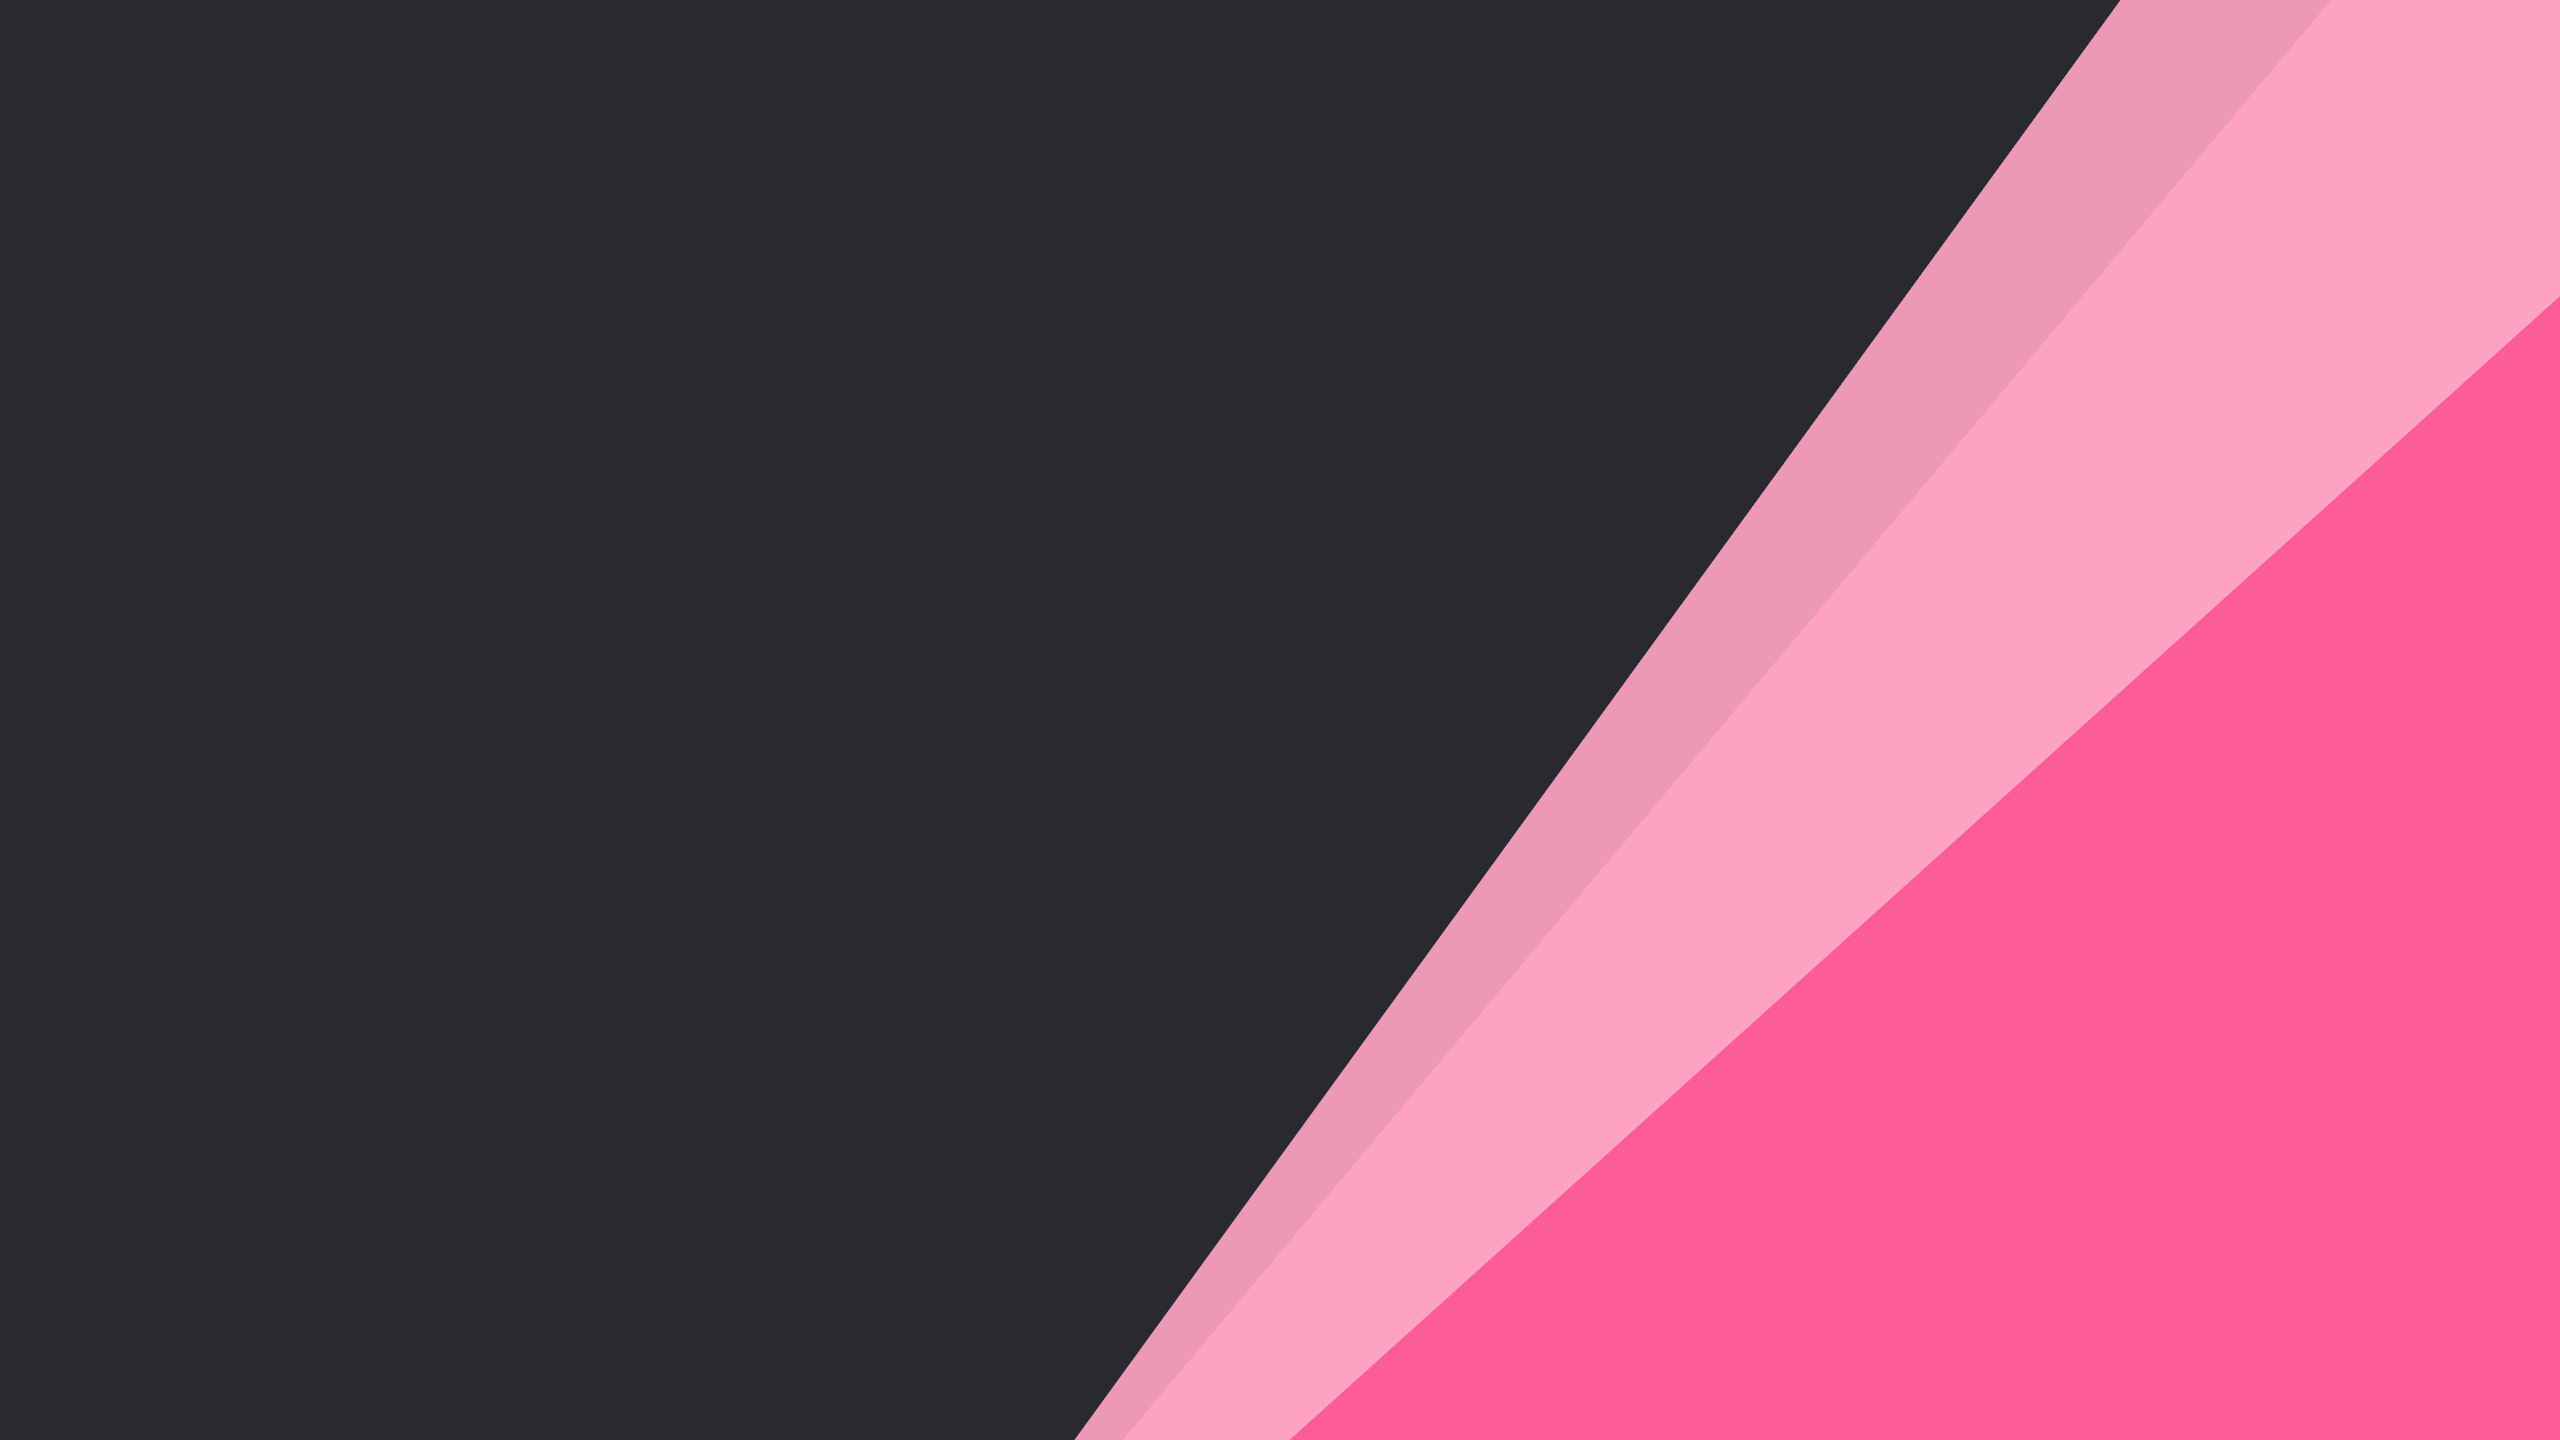
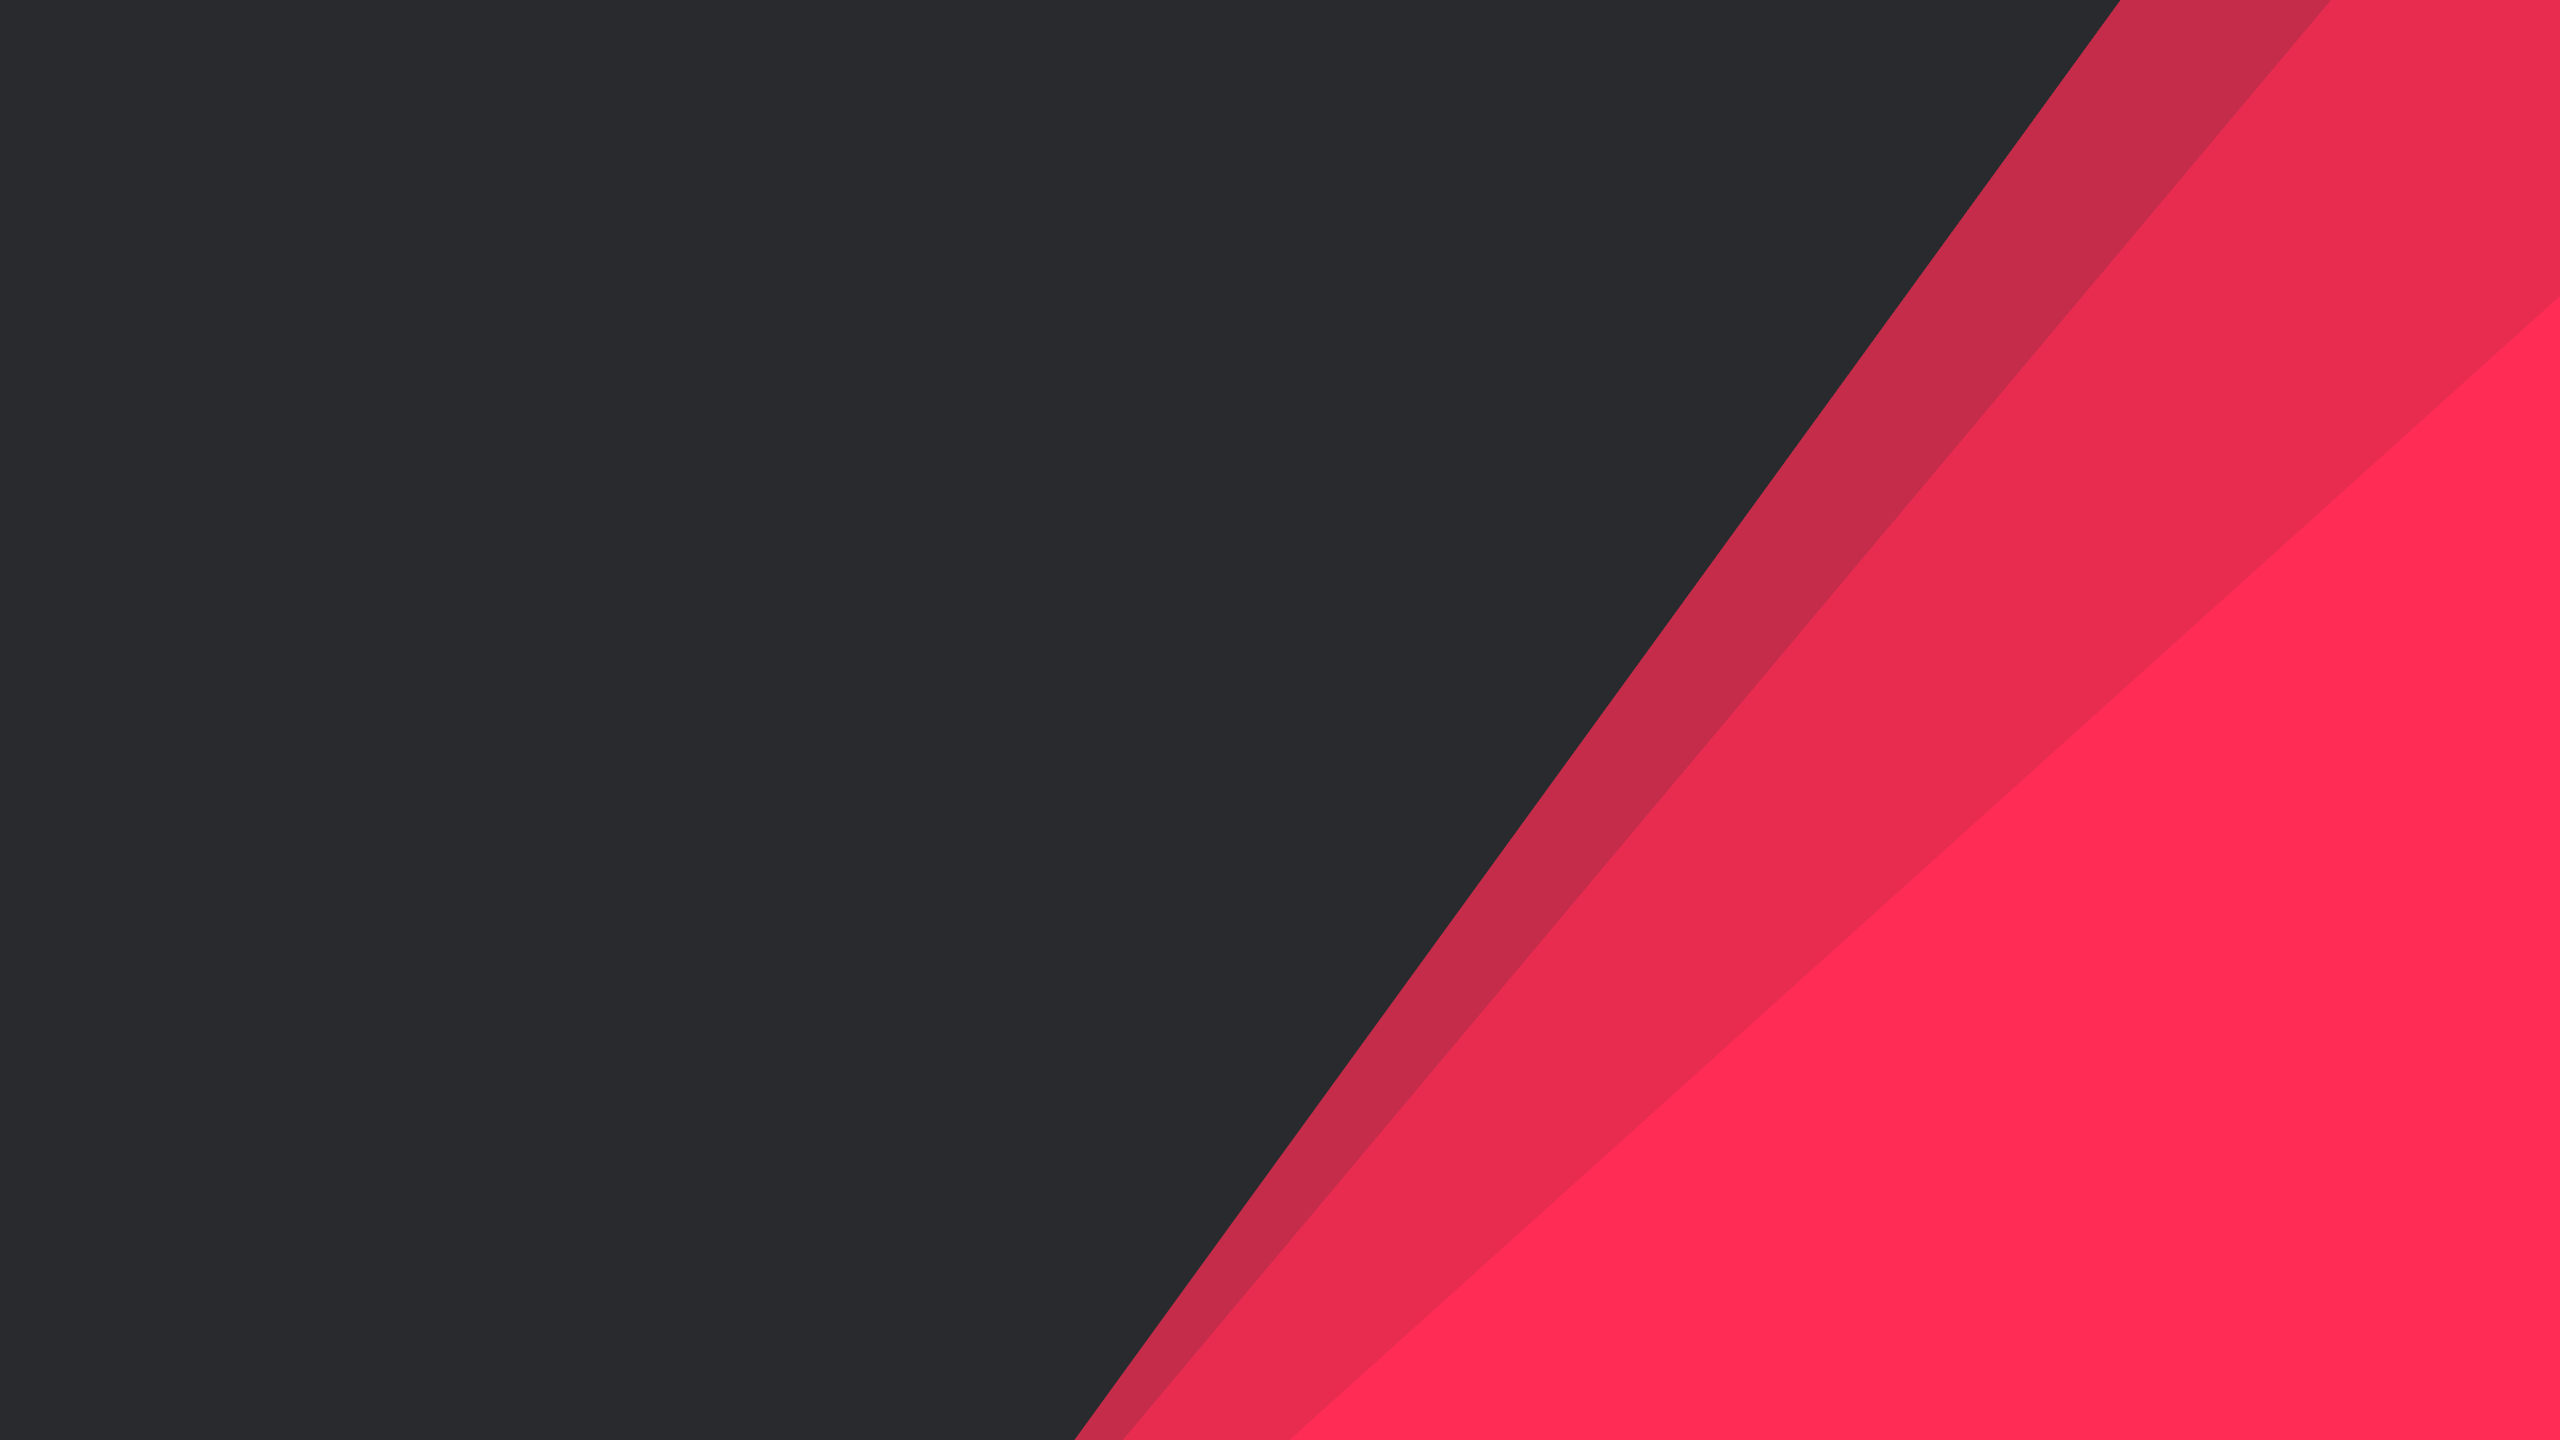
Added extra backgrounds

diff --git a/client/src/application/components/App.js b/client/src/application/components/App.js
@@ -4,7 +4,7 @@ import { windowSizeChange } from '../ducks';
 import theme from '../common/theme';
 import NavBar from './NavBar';
 
-const rand = 2;//Math.ceil(Math.random() * (2 - 1)) + 1;
+const rand = Math.ceil(Math.random() * (4 - 1)) + 1;
 const background = `images/background${rand}.png`;
 const styles = {
   app: {
@@ -45,6 +45,7 @@ const styles = {
   },
   smallContent: {
     width: 'calc(100vw - 32px)',
+    opacity: '0.82',
   },
   innerContent: {
     paddingTop: theme.dimensions.navBarHeight,
@@ -77,7 +78,6 @@ class App extends React.Component {
       smallApp = styles.smallApp;
       smallContent = styles.smallContent;
     }
-    console.log({...styles.content, ...smallContent});
     return (
       <div
         style={{
